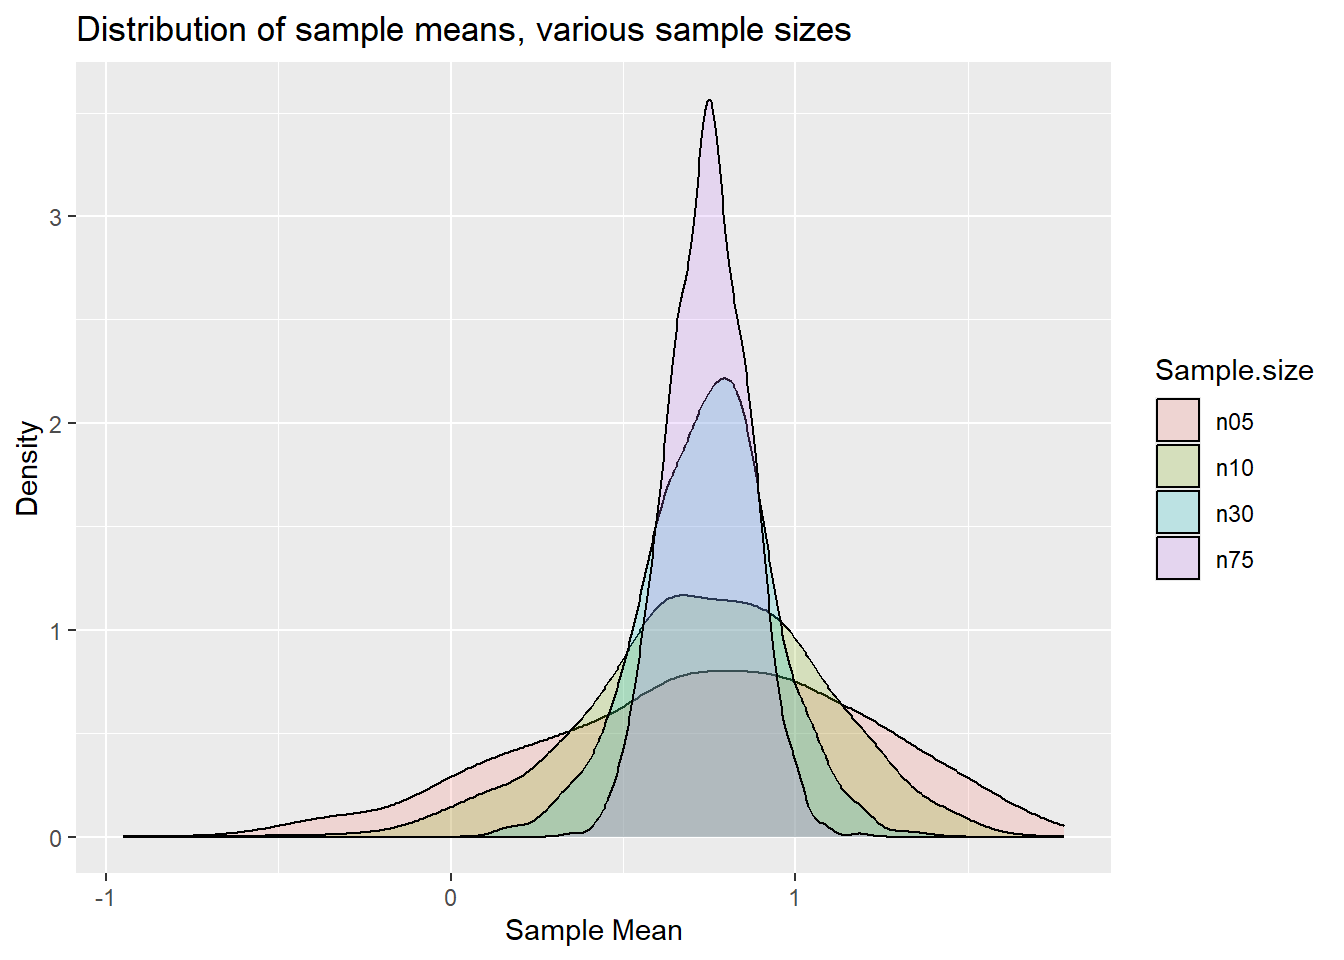
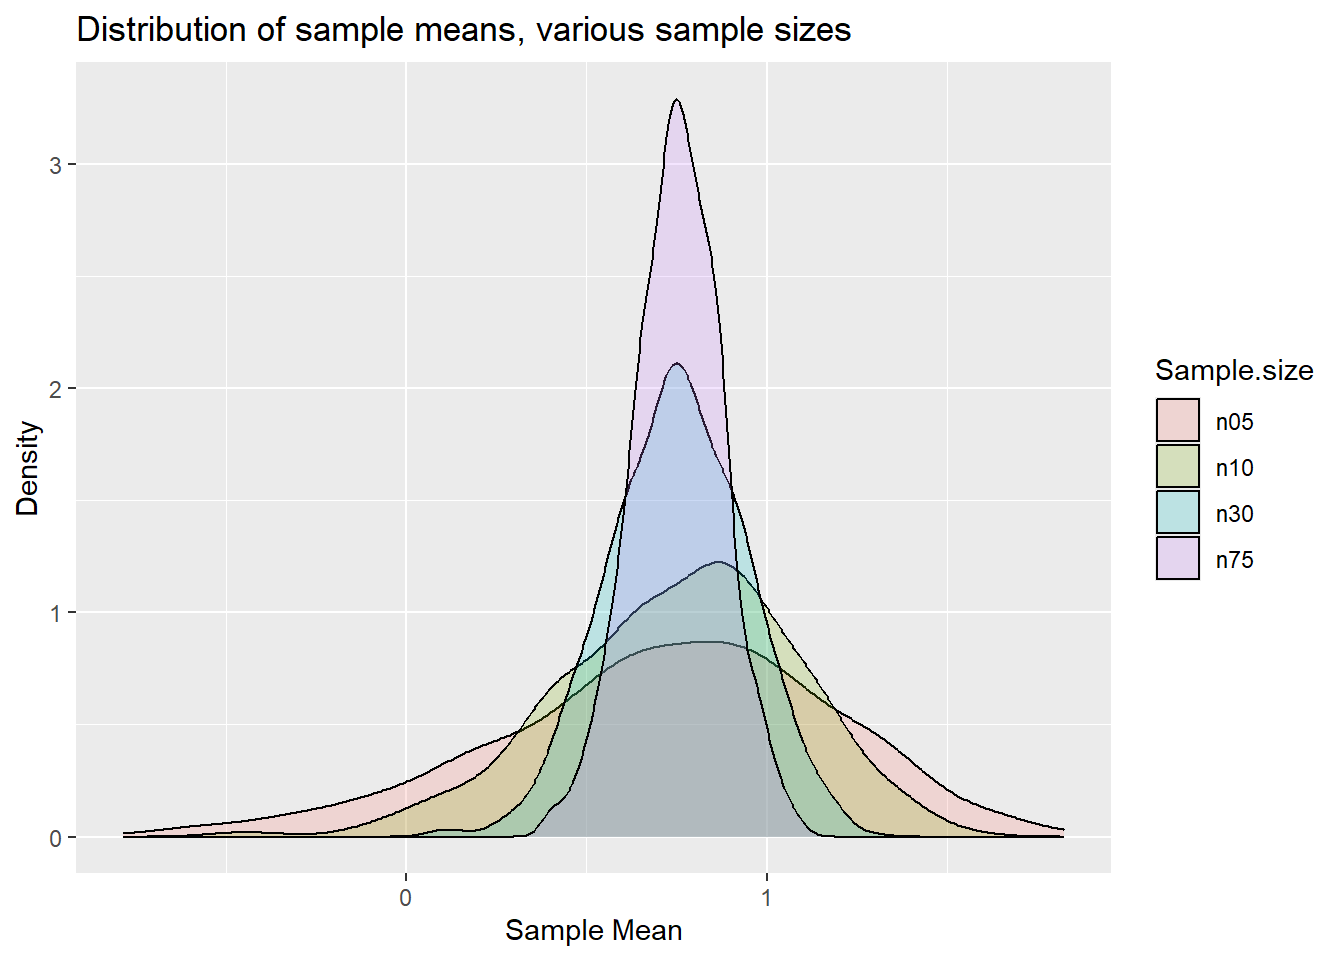
added PanelRegression and updated author page

diff --git a/R_GarchModelling.html b/R_GarchModelling.html
@@ -403,13 +403,13 @@ getSymbols(&quot;^GSPC&quot;, from = startDate, to = endDate)</code></pre>
 object with the respective ticker symbol name. Let’s have a look at one
 of these dataframes to understand what data these are:</p>
 <pre class="r"><code>head(IBM)</code></pre>
-<pre><code>##            IBM.Open IBM.High  IBM.Low IBM.Close IBM.Volume IBM.Adjusted
-## 2007-01-03 92.90631 94.07265 92.02677  92.99236    9619853     52.58294
-## 2007-01-04 92.97323 94.44550 92.61950  93.98662   11008627     53.14511
-## 2007-01-05 93.30784 93.64245 92.64819  93.13576    7553480     52.66402
-## 2007-01-08 94.16826 95.12428 94.02486  94.55067   10815640     53.46408
-## 2007-01-09 94.72276 95.91779 94.71320  95.66921   11619177     54.09660
-## 2007-01-10 94.16826 94.69408 93.62333  94.54111    9147061     53.45868</code></pre>
+<pre><code>##            IBM.Open IBM.High IBM.Low IBM.Close IBM.Volume IBM.Adjusted
+## 2007-01-03       93       94      92        93    9619853           53
+## 2007-01-04       93       94      93        94   11008627           53
+## 2007-01-05       93       94      93        93    7553480           53
+## 2007-01-08       94       95      94        95   10815640           53
+## 2007-01-09       95       96      95        96   11619177           54
+## 2007-01-10       94       95      94        95    9147061           53</code></pre>
 <pre class="r"><code>str(IBM)</code></pre>
 <pre><code>## An xts object on 2007-01-03 / 2018-04-27 containing: 
 ##   Data:    double [2850, 6]
@@ -417,7 +417,7 @@ of these dataframes to understand what data these are:</p>
 ##   Index:   Date [2850] (TZ: &quot;UTC&quot;)
 ##   xts Attributes:
 ##     $ src    : chr &quot;yahoo&quot;
-##     $ updated: POSIXct[1:1], format: &quot;2024-10-06 12:04:22&quot;</code></pre>
+##     $ updated: POSIXct[1:1], format: &quot;2024-10-07 09:50:45&quot;</code></pre>
 <p>You can see that this object contains a range of daily observations
 (<code>Open</code>, <code>High</code>, <code>Close</code>,
 <code>Volume</code> and <code>Adjusted</code> share price). We also
@@ -535,7 +535,7 @@ from the estimation. Let’s have a look at the results</p>
 ## alpha1  0.111085    0.049762  2.23232 0.025594
 ## beta1   0.809643    0.076640 10.56424 0.000000
 ## 
-## LogLikelihood : 8364.692 
+## LogLikelihood : 8365 
 ## 
 ## Information Criteria
 ## ------------------------------------
@@ -571,7 +571,7 @@ from the estimation. Let’s have a look at the results</p>
 ## 
 ## Nyblom stability test
 ## ------------------------------------
-## Joint Statistic:  26.7347
+## Joint Statistic:  27
 ## Individual Statistics:              
 ## mu     0.42590
 ## ar1    0.06676
@@ -580,7 +580,7 @@ from the estimation. Let’s have a look at the results</p>
 ## beta1  0.15390
 ## 
 ## Asymptotic Critical Values (10% 5% 1%)
-## Joint Statistic:          1.28 1.47 1.88
+## Joint Statistic:          1.3 1.5 1.9
 ## Individual Statistic:     0.35 0.47 0.75
 ## 
 ## Sign Bias Test
@@ -601,7 +601,7 @@ from the estimation. Let’s have a look at the results</p>
 ## 4    50     166.0    1.240e-14
 ## 
 ## 
-## Elapsed time : 0.309979</code></pre>
+## Elapsed time : 0.33</code></pre>
 <p>If you are familiar with GARCH models you will recognise some of the
 parameters. <code>ar1</code> is the AR1 coefficient of the mean model
 (here very small and basically insignificant), <code>alpha1</code> is
@@ -634,8 +634,8 @@ contain you can figure out by asking for the element names</p>
 <p>If you wanted to extract the estimated coefficients you would do that
 in the following way:</p>
 <pre class="r"><code>ugfit@fit$coef</code></pre>
-<pre><code>##            mu           ar1         omega        alpha1         beta1 
-##  3.420060e-04 -1.357913e-02  1.515333e-05  1.110854e-01  8.096429e-01</code></pre>
+<pre><code>##        mu       ar1     omega    alpha1     beta1 
+##  0.000342 -0.013579  0.000015  0.111085  0.809643</code></pre>
 <pre class="r"><code>ug_var &lt;- ugfit@fit$var   # save the estimated conditional variances
 ug_res2 &lt;- (ugfit@fit$residuals)^2   # save the estimated squared residuals</code></pre>
 <p>Let’s plot the squared residuals and the estimated conditional
@@ -793,12 +793,12 @@ each day of data.</p>
 <p>Let’s have a look at the correlation matrix for the last day, day
 2850;</p>
 <pre class="r"><code>cor1[,,dim(cor1)[3]]</code></pre>
-<pre><code>##            rIBM      rBP     rGOOG
-## rIBM  1.0000000 0.242554 0.3535372
-## rBP   0.2425540 1.000000 0.2753110
-## rGOOG 0.3535372 0.275311 1.0000000</code></pre>
+<pre><code>##       rIBM  rBP rGOOG
+## rIBM  1.00 0.24  0.35
+## rBP   0.24 1.00  0.28
+## rGOOG 0.35 0.28  1.00</code></pre>
 <p>So let’s say we want to plot the time-varying correlation between
-Google and BP, which is 0.275311 on that last day. In our matrix with
+Google and BP, which is 0.28 on that last day. In our matrix with
 returns <code>rX</code> BP is the second asset and Google the 3rd. So in
 any particular correlation matrix we want the element in row 2 and
 column 3.</p>

diff --git a/R_LLN_and_CLT.html b/R_LLN_and_CLT.html
@@ -377,9 +377,9 @@ x2 &lt;- rnorm(n, mean=mu, sd=std)  # sampled from normal distribution with mean
 mean1 &lt;- mean(x1)
 mean2 &lt;- mean(x2)
 paste(&quot;Sample 1 mean = &quot;, mean1)</code></pre>
-<pre><code>## [1] &quot;Sample 1 mean =  1.64303160097916&quot;</code></pre>
+<pre><code>## [1] &quot;Sample 1 mean =  1.56863105746452&quot;</code></pre>
 <pre class="r"><code>paste(&quot;Sample 2 mean = &quot;, mean2)</code></pre>
-<pre><code>## [1] &quot;Sample 2 mean =  -0.521765306306065&quot;</code></pre>
+<pre><code>## [1] &quot;Sample 2 mean =  -0.413753138885421&quot;</code></pre>
 <p>As you can see the means are different from the respective population
 means of 1.5 (for the uniform distribution drawing values between 1 and
 2) and 0 (as set when we draw normally distributed random vaiables). The
@@ -474,11 +474,11 @@ p_denpop</code></pre>
 population mean and standard deviation.</p>
 <pre class="r"><code>mu_x = mean(Xpop)
 paste(&quot;Population mean =&quot;, mu_x)</code></pre>
-<pre><code>## [1] &quot;Population mean = 0.747800149661189&quot;</code></pre>
+<pre><code>## [1] &quot;Population mean = 0.747570309782211&quot;</code></pre>
 <pre class="r"><code># as sd calculates sample sd we correct to get pop sd
 std_x = sd(Xpop)*((length(Xpop)-1)/length(Xpop)) 
 paste(&quot;Population standard error =&quot;, std_x)</code></pre>
-<pre><code>## [1] &quot;Population standard error = 1.04658733716929&quot;</code></pre>
+<pre><code>## [1] &quot;Population standard error = 1.05176969053287&quot;</code></pre>
 <p>Let’s start by using two sample sizes, <code>n1=5</code> and
 <code>n2=30</code>. We draw 1000 samples, calculate sample means and
 then show the distribution of the resulting sequences of sample

diff --git a/index.html b/index.html
@@ -515,6 +515,13 @@ in R</a></td>
 <td align="left"><a
 href="https://github.com/datasquad/ECLR/blob/gh-pages/data/Mroz.csv">mroz.csv</a></td>
 </tr>
+<tr class="odd">
+<td align="left">Panel Models</td>
+<td align="left"><a
+href="https://datasquad.github.io/ECLR/R_PanelRegression.html">Workthrough
+in R</a></td>
+<td align="left">in code links</td>
+</tr>
 </tbody>
 </table>
 <div id="large-data-data-science-techniques" class="section level2">
@@ -588,6 +595,13 @@ href="https://datasquad.github.io/ECLR/R_TS_Modelling.html">Workthrough
 in R</a></td>
 <td align="left"><a
 href="https://github.com/datasquad/ECLR/blob/gh-pages/data/EUROSTATtimeseries.csv">EUROSTATtimeseries.csv</a></td>
+</tr>
+<tr class="even">
+<td align="left">GARCH modeling</td>
+<td align="left"><a
+href="https://datasquad.github.io/ECLR/R_GarchModelling.html">Workthrough
+in R</a></td>
+<td align="left">in code data download</td>
 </tr>
 </tbody>
 </table>

diff --git a/Author.html b/Author.html
@@ -275,7 +275,12 @@ $(document).ready(function () {
 <ul>
 <li><a href="https://datasquad.github.io/ralffbecker/index.html">Ralf
 Becker</a>, The University of Manchester</li>
-<li>Arthur Sinko</li>
+<li><a
+href="https://research.manchester.ac.uk/en/persons/arthur-sinko">Arthur
+Sinko</a>, The University of Manchester</li>
+<li><a
+href="https://www.linkedin.com/in/gerasimos-kakaroumpas/?originalSubdomain=uk">Gerasimos
+Kakaroumpas</a>, The University of Manchester</li>
 </ul>
 
 

diff --git a/examples.html b/examples.html
@@ -396,6 +396,14 @@ collection and Prep</a>, <a
 href="https://datasquad.github.io/ECLR/Ex/GunPolicyDiD.html">Diff-in-Diff
 analysis</a></td>
 </tr>
+<tr class="odd">
+<td align="left">HAR Models for realized volatility</td>
+<td align="left">various, eg. Corsi</td>
+<td align="left">Data Handling, Estimating and forecasting from HAR
+models</td>
+<td align="left"><a
+href="https://datasquad.github.io/ECLR/Ex/HAR.html">R-Workthrough</a></td>
+</tr>
 </tbody>
 </table>
 

diff --git a/Datasets.html b/Datasets.html
@@ -11,7 +11,7 @@
 
 <meta name="author" content="Ralf Becker" />
 
-<meta name="date" content="2024-10-06" />
+<meta name="date" content="2024-10-07" />
 
 <title>Datasets used on ECLR</title>
 
@@ -270,7 +270,7 @@ $(document).ready(function () {
 
 <h1 class="title toc-ignore">Datasets used on ECLR</h1>
 <h4 class="author">Ralf Becker</h4>
-<h4 class="date">2024-10-06</h4>
+<h4 class="date">2024-10-07</h4>
 
 </div>
 
